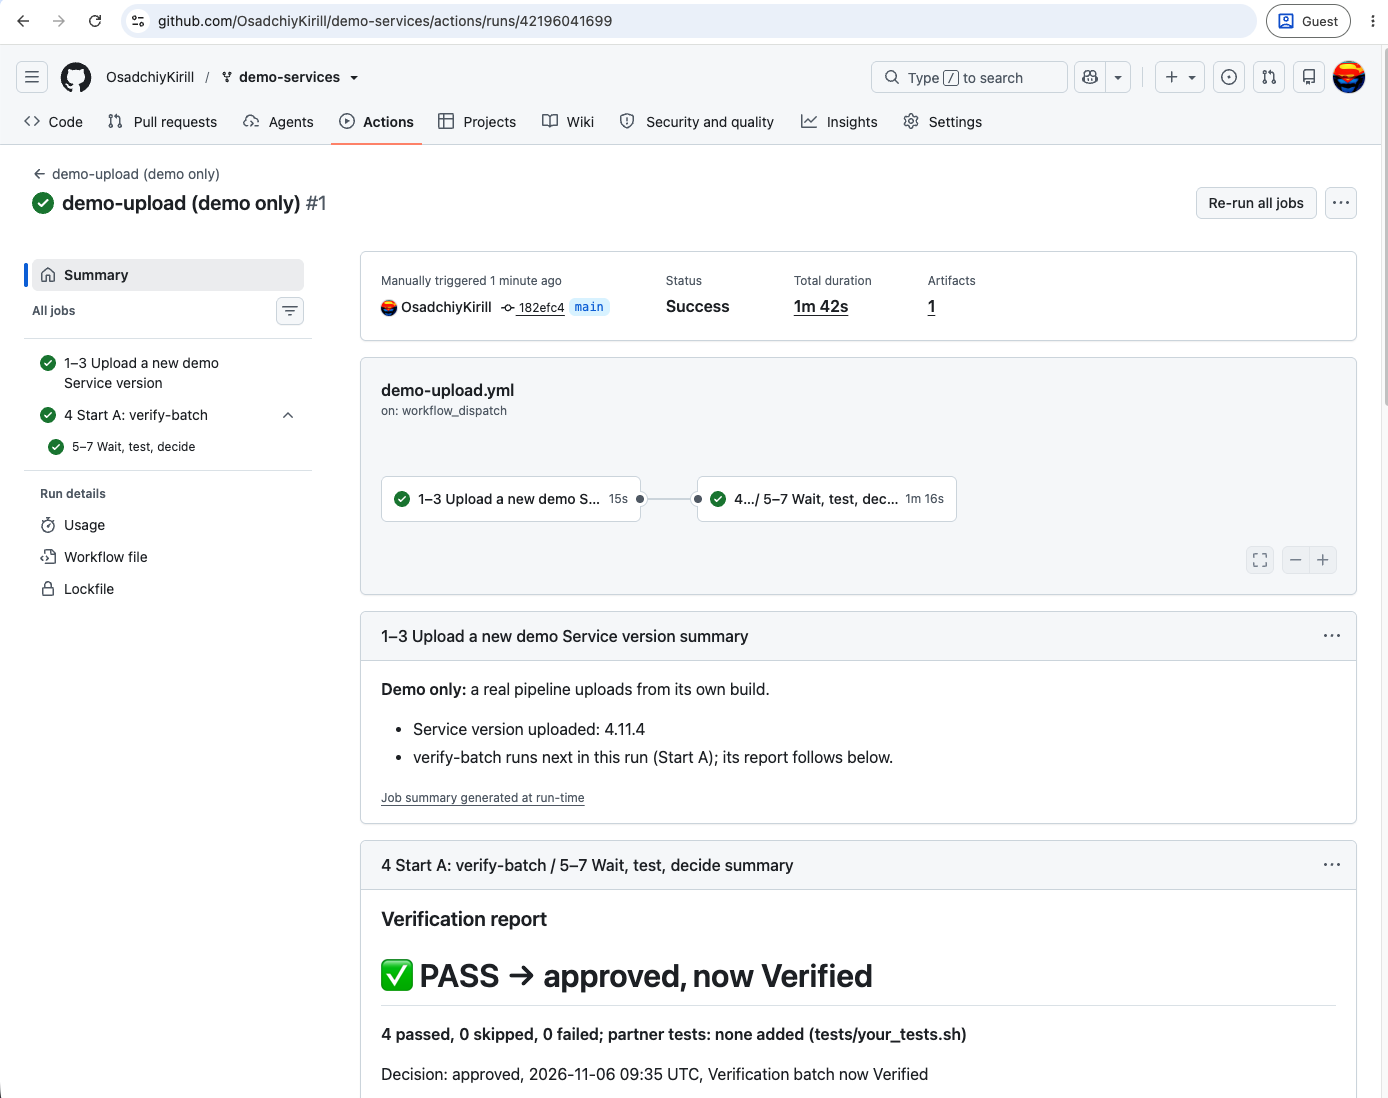
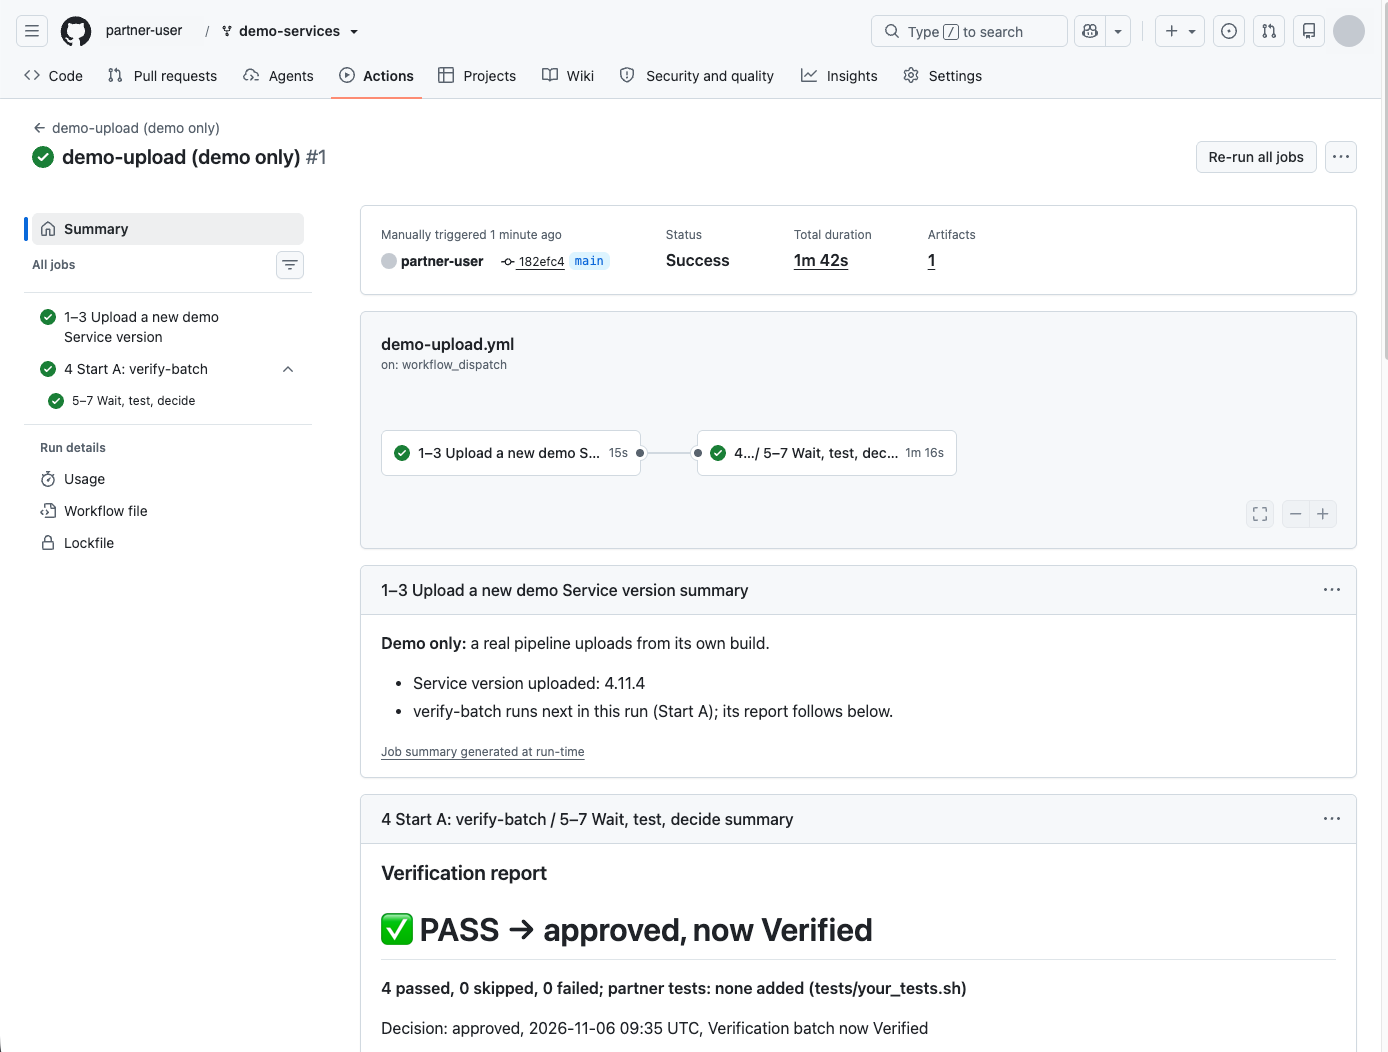
verification-example: the video under the README and TRY_IT titles, TRY_IT screenshots masked
README and TRY_IT: "Watch it run (5 min)" under the title; GitHub shows a player, elsewhere the poster links to the video.
TRY_IT screenshots: browser bar cut off, account name → partner-user, avatars → grey circle.
Test: the TRY_IT id check skips the video URL; README and TRY_IT must have the video block.

diff --git a/verification-example/tests/test_verify_batch.py b/verification-example/tests/test_verify_batch.py
@@ -2038,8 +2038,12 @@ def test_try_it_has_the_five_steps_and_the_readme_links_it():
     for name in ('AOS_USER_PEM', 'AOS_ROOT_CA_PEM', 'AOS_SERVICE_ID', 'AOS_API_URL', 'I understand my workflows', 'demo-upload',
                  'verify-batch', 'If something goes wrong'):
         assert name in page
-    assert verify_batch.AN_UUID.search(page) is None and '@' not in page
+    video = re.compile(r'\]\(https://github\.com/user-attachments/assets/[0-9a-f-]{36}\)')  # GitHub's id of the video
+    assert verify_batch.AN_UUID.search(video.sub('](video)', page)) is None and '@' not in page
     readme = (ROOT / 'README.md').read_text(encoding='utf-8')
+    for text in (readme, page):  # the player under the title; the poster where no player shows
+        assert text.split('\n')[2] == 'Watch it run (5 min):' and video.search(text.split('\n')[4])
+        assert '(docs/img/video-poster.png)' in text.split('\n')[4]
     assert readme.index('## How the job knows') < readme.index('## Try it in your browser') < readme.index('TRY_IT.md')
     assert readme.index('TRY_IT.md') < readme.index('## Add it to your repository') < readme.index('## Read more')
     assert readme.index('![Automatic verification') < readme.index('## How the job knows')

diff --git a/verification-example/README.md b/verification-example/README.md
@@ -1,5 +1,9 @@
 # Automatic verification of a new Service version
 
+Watch it run (5 min):
+
+[![Watch it run (5 min): a good Service version approved, a broken one rejected](docs/img/video-poster.png)](https://github.com/user-attachments/assets/6d330145-2851-476b-9cb5-bf2d769bc42c)
+
 AosCloud installs a new Service version only on the Verification Set and then waits for an approval. It does not tell a pipeline that a version waits, so today a person has to notice and approve by hand. This example closes that step: a CI job learns that a Service version waits, checks that it runs on the test Units, runs your tests, and approves or rejects it in AosCloud, with a report for every release. Nothing reaches the fleet before the decision. When the job cannot be sure (a Unit offline, a timeout, an error) it decides nothing, and you can keep the decision for a person.
 
 GitHub Actions is the example; the logic is one Python file and one shell script, so it runs in any CI with Python 3.10 that reaches AosCloud (see [Run it from a terminal](docs/run-locally.md)).

diff --git a/verification-example/TRY_IT.md b/verification-example/TRY_IT.md
@@ -1,5 +1,9 @@
 # Run it yourself in 5 steps
 
+Watch it run (5 min):
+
+[![Watch it run (5 min): a good Service version approved, a broken one rejected](docs/img/video-poster.png)](https://github.com/user-attachments/assets/6d330145-2851-476b-9cb5-bf2d769bc42c)
+
 You run the whole flow in your own GitHub, with only a browser: upload, wait, checks, decision. It takes about 2 minutes
 once the secrets are in. It uses a demo Service and a demo Unit, not yours.
 
